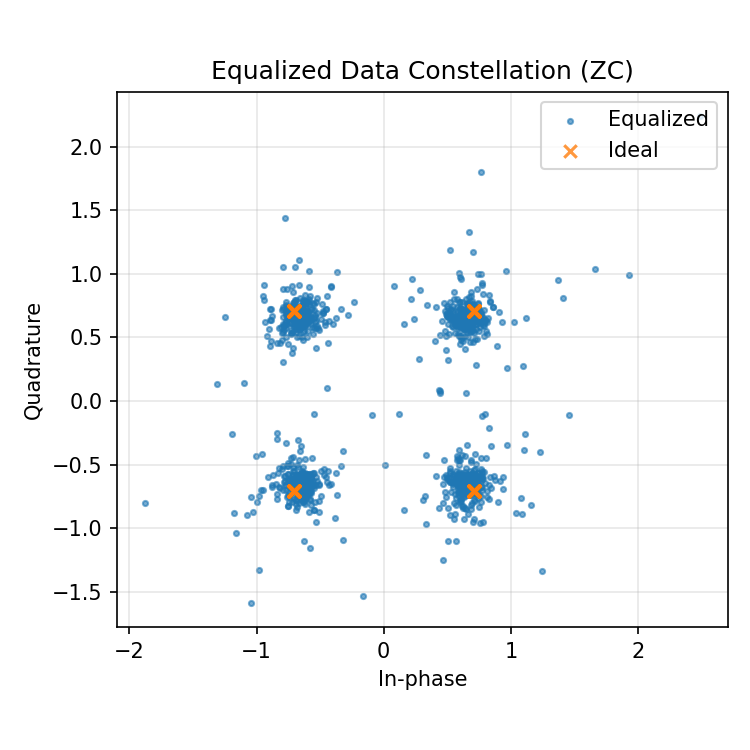
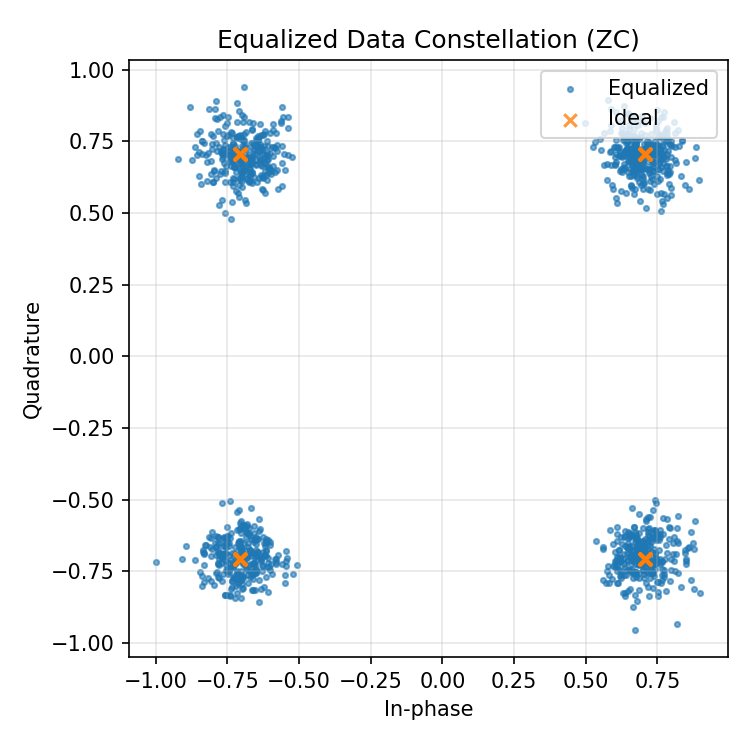
cleaned up

diff --git a/sc.py b/sc.py
@@ -147,7 +147,7 @@ def find_plateau_end_from_metric(
 
 
 # Detector and channel parameters (script-local)
-SNR_DB = 20.0
+SNR_DB = 10.0
 CFO_HZ = 1000.0
 SC_DELTA = 0  # step back from plateau end to sit inside CP (8–16 suggested)
 SMOOTH_WIN = 32  # samples for smoothing M(d) before slope detection
@@ -161,9 +161,8 @@ RESULTS_PLOT_PATH = PLOTS_DIR / "start_detection.png"
 CIR_PLOT_PATH = PLOTS_DIR / "channel_cir.png"
 CONST_PLOT_PATH = PLOTS_DIR / "constellation.png"
 
-# Channel profile (set to 'cir1' or 'cir2' to enable measured CIR)
-CHANNEL_PROFILE = "cir1"
-CHANNEL_RX_INDICES: tuple[int, ...] | None = (0, 1)
+# Measured channel: fixed to 'cir1' ch1 (SISO). Set to None for AWGN-only.
+MEASURED_CHANNEL_NAME = None
 
 
 def run_simulation():
@@ -177,23 +176,12 @@ def run_simulation():
     frame = np.concatenate((sc_preamble, pilot_symbol, data_symbol))
     tx_samples = np.concatenate((np.zeros(TX_PRE_PAD_SAMPLES, dtype=complex), frame))
 
-    # Optional channel
-    channel_impulse_response = None
-    used_rx_indices: tuple[int, ...] = (0,)
-    if CHANNEL_PROFILE:
-        cir_bank = load_measured_cir(CHANNEL_PROFILE)
-        available_channels = cir_bank.shape[0]
-        if CHANNEL_RX_INDICES is None or len(CHANNEL_RX_INDICES) == 0:
-            selected_indices = tuple(range(available_channels))
-        else:
-            selected_indices = tuple(CHANNEL_RX_INDICES)
-        invalid = [idx for idx in selected_indices if idx < 0 or idx >= available_channels]
-        if invalid:
-            raise ValueError(
-                f"Channel indices {invalid} out of range for profile '{CHANNEL_PROFILE}' (0..{available_channels - 1})",
-            )
-        used_rx_indices = selected_indices
-        channel_impulse_response = cir_bank[np.array(selected_indices)]
+    # Channel: use only ch1 (index 1) for SISO when a profile is set
+    if MEASURED_CHANNEL_NAME is None:
+        channel_impulse_response = None
+    else:
+        cir_bank = load_measured_cir(MEASURED_CHANNEL_NAME)
+        channel_impulse_response = cir_bank[1:2]  # shape (1, taps)
 
     rx_samples = apply_channel(
         tx_samples,
@@ -216,11 +204,11 @@ def run_simulation():
 
     # Ground-truth alignment helpers
     channel_peak_offset = compute_channel_peak_offset(channel_impulse_response)
+    # Plot raw CIR if measured profile enabled
     if channel_impulse_response is not None:
-        # Plot raw CIR per branch
         plot_time_series(
             channel_impulse_response,
-            f"Measured Channel CIR ('{CHANNEL_PROFILE}', branches {used_rx_indices})",
+            f"Measured Channel CIR ('{MEASURED_CHANNEL_NAME}', ch1)",
             CIR_PLOT_PATH,
         )
 
@@ -310,7 +298,7 @@ def run_simulation():
     print(f"Receive branches: {1 if rx_samples.ndim == 1 else rx_samples.shape[0]}")
     if channel_impulse_response is not None:
         print(
-            f"Applied channel '{CHANNEL_PROFILE}' (branches {used_rx_indices}) taps={channel_impulse_response.shape[1]} main-path offset={channel_peak_offset}",
+            f"Applied measured channel '{MEASURED_CHANNEL_NAME}' (ch1 only) taps={channel_impulse_response.shape[1]} main-path offset={channel_peak_offset}",
         )
     else:
         print("Channel profile disabled (AWGN only)")

diff --git a/zc.py b/zc.py
@@ -47,7 +47,7 @@ def build_pss_symbol(include_cp: bool = True) -> np.ndarray:
 
 
 # Script-local parameters
-SNR_DB = 20.0
+SNR_DB = 10.0
 CFO_HZ = 1000.0
 
 PLOTS_DIR = Path("plots") / "zc"
@@ -58,8 +58,8 @@ RESULTS_PLOT_PATH = PLOTS_DIR / "start_detection.png"
 CIR_PLOT_PATH = PLOTS_DIR / "channel_cir.png"
 CONST_PLOT_PATH = PLOTS_DIR / "constellation.png"
 
-CHANNEL_PROFILE = "cir1" # Set to None to bypass measured CIR
-CHANNEL_RX_INDICES: tuple[int, ...] | None = (0, 1)
+# Measured channel fixed to 'cir1' ch1 (SISO). Set to None for AWGN-only.
+MEASURED_CHANNEL_NAME = None
 
 
 def run_simulation():
@@ -72,22 +72,12 @@ def run_simulation():
     frame = np.concatenate((pss_waveform, pilot_symbol, data_symbol))
     tx_samples = np.concatenate((np.zeros(TX_PRE_PAD_SAMPLES, dtype=complex), frame))
 
-    channel_impulse_response = None
-    used_rx_indices: tuple[int, ...] = (0,)
-    if CHANNEL_PROFILE:
-        cir_bank = load_measured_cir(CHANNEL_PROFILE)
-        available_channels = cir_bank.shape[0]
-        if CHANNEL_RX_INDICES is None or len(CHANNEL_RX_INDICES) == 0:
-            selected_indices = tuple(range(available_channels))
-        else:
-            selected_indices = tuple(CHANNEL_RX_INDICES)
-        invalid = [idx for idx in selected_indices if idx < 0 or idx >= available_channels]
-        if invalid:
-            raise ValueError(
-                f"Channel indices {invalid} out of range for profile '{CHANNEL_PROFILE}' (0..{available_channels - 1})",
-            )
-        used_rx_indices = selected_indices
-        channel_impulse_response = cir_bank[np.array(selected_indices)]
+    # Channel: use only ch1 (index 1) for SISO when a profile is set
+    if MEASURED_CHANNEL_NAME is None:
+        channel_impulse_response = None
+    else:
+        cir_bank = load_measured_cir(MEASURED_CHANNEL_NAME)
+        channel_impulse_response = cir_bank[1:2]  # shape (1, taps)
 
     rx_samples = apply_channel(
         tx_samples,
@@ -122,11 +112,11 @@ def run_simulation():
     channel_peak_offset = compute_channel_peak_offset(channel_impulse_response)
     pss_reference_lead = max(pss_waveform.size - pss_reference.size, 0)
 
+    # Plot the raw channel impulse response if measured profile enabled
     if channel_impulse_response is not None:
-        # Plot the raw channel impulse response per branch
         plot_time_series(
             channel_impulse_response,
-            f"Measured Channel CIR ('{CHANNEL_PROFILE}', branches {used_rx_indices})",
+            f"Measured Channel CIR ('{MEASURED_CHANNEL_NAME}', ch1)",
             CIR_PLOT_PATH,
         )
 
@@ -206,8 +196,7 @@ def run_simulation():
     print(f"Receive branches: {num_branches}")
     if channel_impulse_response is not None:
         print(
-            f"Applied channel '{CHANNEL_PROFILE}' (branches {used_rx_indices}) "
-            f"taps={channel_impulse_response.shape[1]} main-path offset={channel_peak_offset}",
+            f"Applied measured channel '{MEASURED_CHANNEL_NAME}' (ch1 only) taps={channel_impulse_response.shape[1]} main-path offset={channel_peak_offset}",
         )
     else:
         print("Channel profile disabled (AWGN only)")
